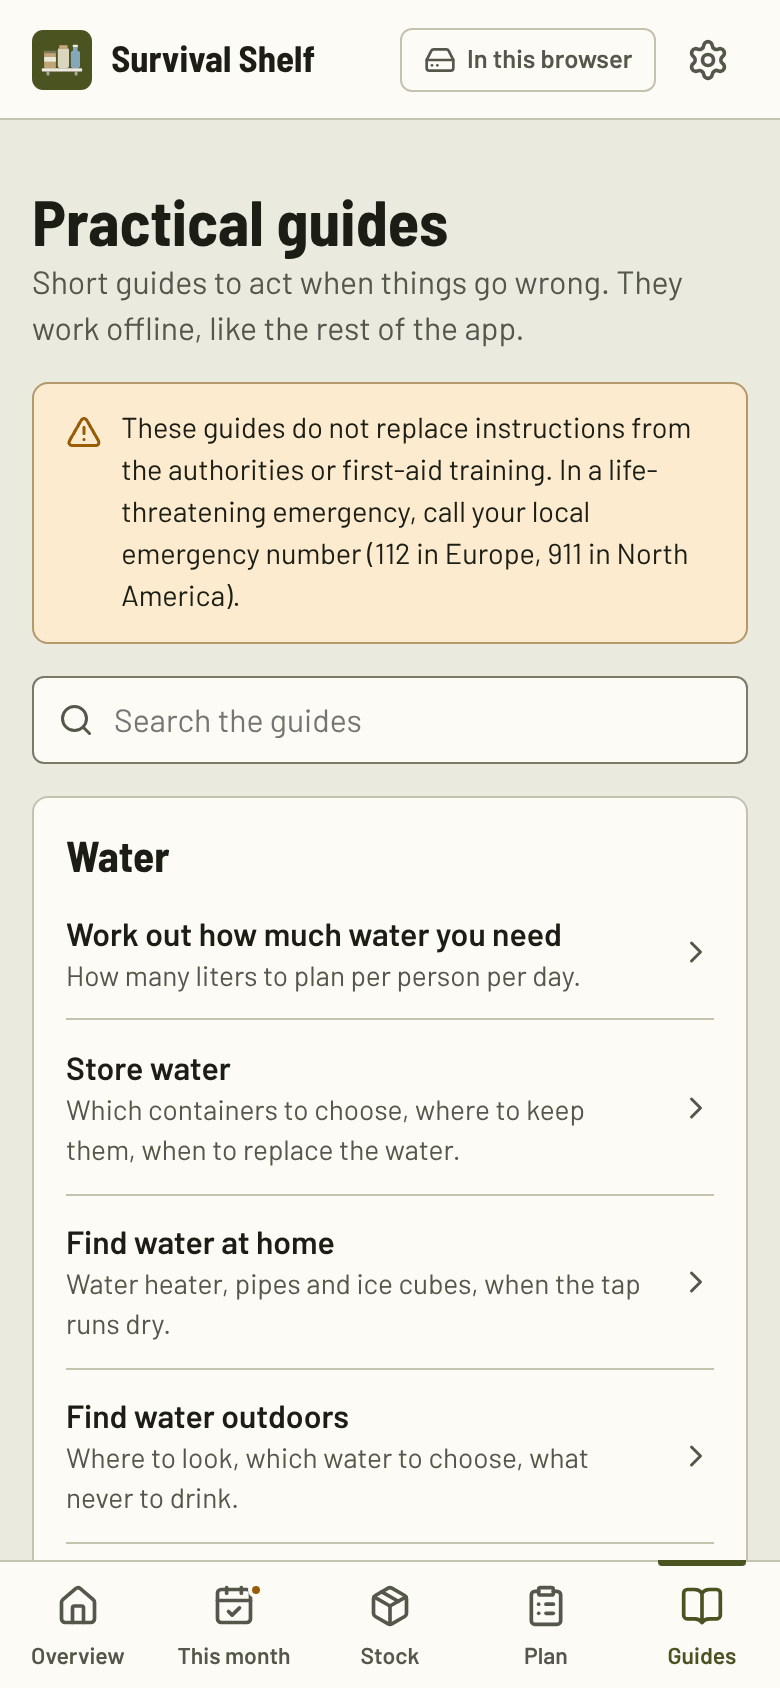
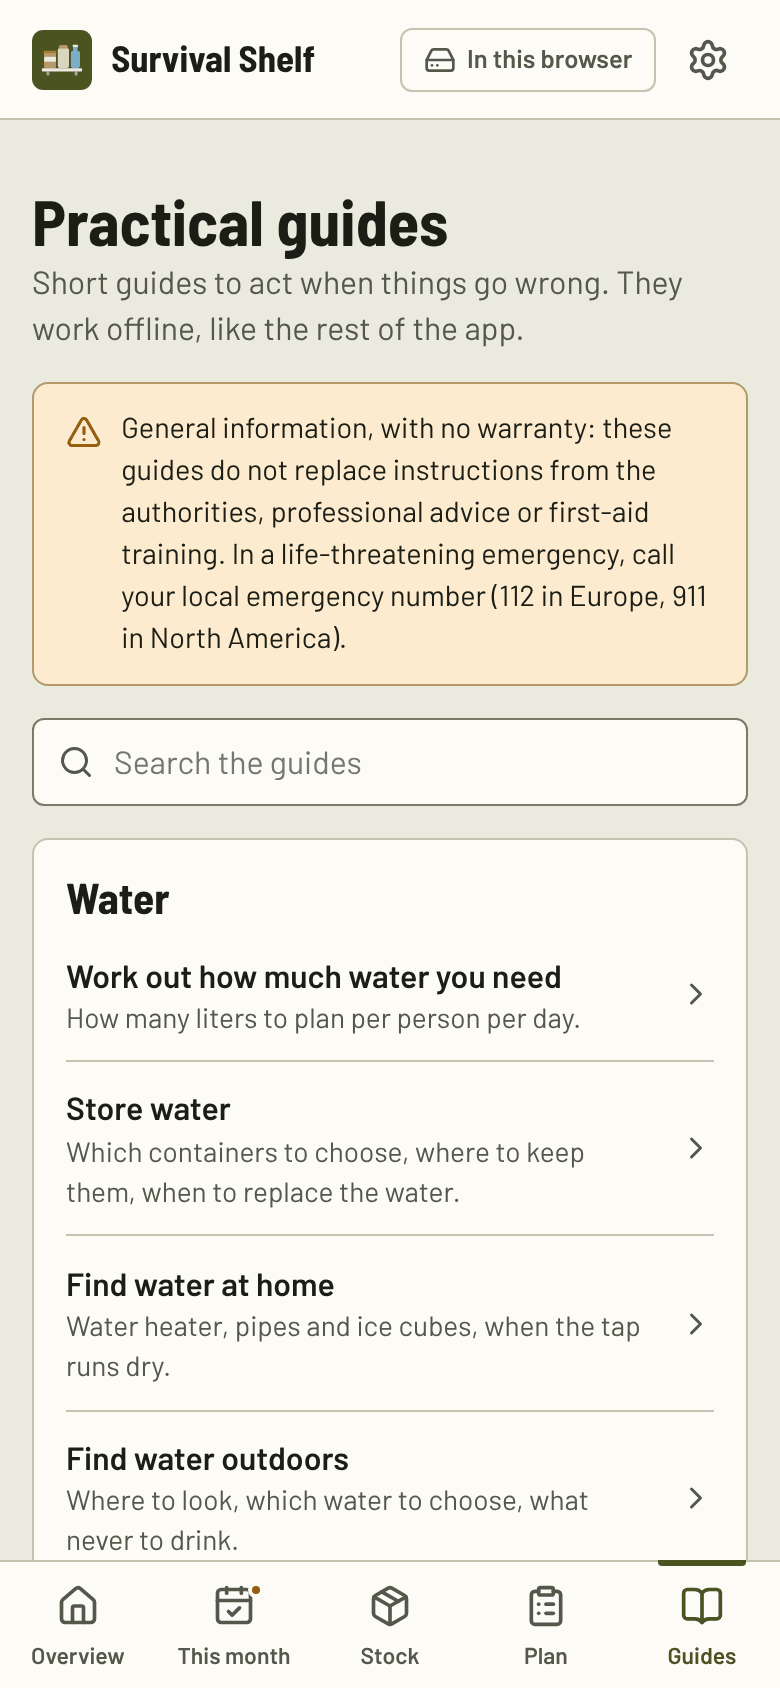
Drop the guides ZIP download and add a disclaimer
The ZIP of all the guides is gone: the build plugin no longer writes it and the
Guides page links to the guides folder on GitHub instead.

A disclaimer now says what the project is and is not: a section in both READMEs,
a stronger notice in the tables of contents of the guides and on the Guides
page, and a paragraph in Settings, About.

Claude-Session: https://claude.ai/code/session_01VbHUrZf3pw8DeQT248njbz

diff --git a/app/build/guides.ts b/app/build/guides.ts
@@ -3,11 +3,8 @@ import { join, relative, sep } from 'node:path';
 import type { Plugin } from 'vite';
 import { LANGS, type Lang } from '../src/lib/core/types.ts';
 import { buildLibrary } from '../src/lib/guides/build.ts';
-import { zip } from './zip.ts';
 
 const VIRTUAL = 'virtual:guides';
-/** Archive of all the guides, served next to the app. */
-export const GUIDES_ZIP = 'survival-shelf-guides.zip';
 
 /** Every Markdown file of the guides folder, keyed by its path relative to that folder. */
 function readGuides(root: string): Record<string, string> {
@@ -20,23 +17,14 @@ function readGuides(root: string): Record<string, string> {
   return files;
 }
 
-/** The whole guides folder, as it is in the repository. */
-function guidesArchive(root: string): Buffer {
-  const files = Object.entries(readGuides(root))
-    .sort(([a], [b]) => a.localeCompare(b))
-    .map(([path, content]) => [`survival-shelf-guides/${path}`, content]);
-  return zip(Object.fromEntries(files));
-}
-
 /**
- * Makes the Markdown guides of the repository available to the app:
- * - `virtual:guides` exports `loadGuides(lang)`, the guides of a language already rendered to
- *   HTML, so the app needs no Markdown parser and reads them offline. Each language is a chunk
- *   of its own, loaded when first needed, or part of the main script with `inline` (the
- *   single-file build has no other file to load);
- * - with `archive`, a ZIP of the whole folder is written next to the app.
+ * Makes the Markdown guides of the repository available to the app: `virtual:guides` exports
+ * `loadGuides(lang)`, the guides of a language already rendered to HTML, so the app needs no
+ * Markdown parser and reads them offline. Each language is a chunk of its own, loaded when first
+ * needed, or part of the main script with `inline` (the single-file build has no other file to
+ * load).
  */
-export function guides(root: string, options: { inline: boolean; archive: boolean }): Plugin {
+export function guides(root: string, options: { inline: boolean }): Plugin {
   return {
     name: 'survival-shelf:guides',
     resolveId(id) {
@@ -62,15 +50,6 @@ export function guides(root: string, options: { inline: boolean; archive: boolea
       const files = readGuides(root);
       for (const path of Object.keys(files)) this.addWatchFile(join(root, path));
       return `export default ${JSON.stringify(buildLibrary(files, lang as Lang))};`;
-    },
-    generateBundle() {
-      if (options.archive) this.emitFile({ type: 'asset', fileName: GUIDES_ZIP, source: guidesArchive(root) });
-    },
-    configureServer(server) {
-      server.middlewares.use(`/${GUIDES_ZIP}`, (_request, response) => {
-        response.setHeader('Content-Type', 'application/zip');
-        response.end(guidesArchive(root));
-      });
     },
   };
 }

diff --git a/app/src/lib/i18n/fr.ts b/app/src/lib/i18n/fr.ts
@@ -326,6 +326,9 @@ export const fr: Record<keyof typeof en, string> = {
   'settings.about': 'À propos',
   'settings.aboutText':
     'Survival Shelf est une appli libre et gratuite. Pas de compte, pas de serveur : tes données ne quittent jamais ton appareil.',
+  'settings.disclaimerTitle': 'Avertissement',
+  'settings.disclaimer':
+    'Survival Shelf est un projet personnel et bénévole, pas une source officielle. Ses estimations (quantités, jours d’autonomie, durées de conservation) et ses fiches sont des informations générales, fournies en l’état, sans garantie : tu les utilises sous ta seule responsabilité. Elles ne remplacent ni les consignes des autorités, ni l’avis d’un professionnel, ni une formation aux premiers secours.',
   'settings.license': 'licence MIT',
   'settings.singleFile': 'Télécharger la version fichier unique',
   'settings.singleFileHint': 'un seul fichier HTML qui marche sans installation, depuis un disque ou une clé USB.',
@@ -373,7 +376,7 @@ export const fr: Record<keyof typeof en, string> = {
   'guides.title': 'Fiches pratiques',
   'guides.intro': 'Des fiches courtes pour agir quand tout va mal. Elles marchent hors ligne, comme le reste de l’appli.',
   'guides.notice':
-    'Ces fiches ne remplacent ni les consignes des autorités ni une formation aux premiers secours. En cas d’urgence vitale, appelle le 112.',
+    'Informations générales, sans garantie : ces fiches ne remplacent ni les consignes des autorités, ni l’avis d’un professionnel, ni une formation aux premiers secours. En cas d’urgence vitale, appelle le 112.',
   'guides.search': 'Chercher dans les fiches',
   'guides.results_one': '{count} fiche pour « {query} »',
   'guides.results_other': '{count} fiches pour « {query} »',
@@ -381,8 +384,8 @@ export const fr: Record<keyof typeof en, string> = {
   'guides.more': 'D’autres thèmes sont en cours d’écriture.',
   'guides.offlineTitle': 'Garde-les sans l’appli',
   'guides.offlineText':
-    'Les fiches sont de simples fichiers texte : copie-les sur un téléphone ou une clé USB, ou imprime celles qui comptent pour toi.',
-  'guides.download': 'Télécharger toutes les fiches',
+    'Les fiches sont aussi de simples fichiers texte, dans le dossier « guides » du projet : copie-les sur un téléphone ou une clé USB, ou imprime celles qui comptent pour toi.',
+  'guides.files': 'Voir les fichiers sur GitHub',
   'guides.all': 'Toutes les fiches',
   'guides.print': 'Imprimer',
   'guides.notFound': 'Cette fiche n’existe pas, ou plus.',

diff --git a/app/src/lib/i18n/en.ts b/app/src/lib/i18n/en.ts
@@ -321,6 +321,9 @@ export const en = {
   'settings.about': 'About',
   'settings.aboutText':
     'Survival Shelf is a free, open-source app. It needs no account and no server: your data never leaves your device.',
+  'settings.disclaimerTitle': 'Disclaimer',
+  'settings.disclaimer':
+    'Survival Shelf is a personal, volunteer project, not an official source. Its estimates (quantities, days of autonomy, shelf lives) and its guides are general information, provided as is, with no warranty: you use them at your own risk. They do not replace instructions from the authorities, professional advice or first-aid training.',
   'settings.license': 'MIT license',
   'settings.singleFile': 'Download the single-file version',
   'settings.singleFileHint': 'one HTML file that runs without installation, from a disk or a USB key.',
@@ -368,7 +371,7 @@ export const en = {
   'guides.title': 'Practical guides',
   'guides.intro': 'Short guides to act when things go wrong. They work offline, like the rest of the app.',
   'guides.notice':
-    'These guides do not replace instructions from the authorities or first-aid training. In a life-threatening emergency, call your local emergency number (112 in Europe, 911 in North America).',
+    'General information, with no warranty: these guides do not replace instructions from the authorities, professional advice or first-aid training. In a life-threatening emergency, call your local emergency number (112 in Europe, 911 in North America).',
   'guides.search': 'Search the guides',
   'guides.results_one': '{count} guide for “{query}”',
   'guides.results_other': '{count} guides for “{query}”',
@@ -376,8 +379,8 @@ export const en = {
   'guides.more': 'More themes are being written.',
   'guides.offlineTitle': 'Keep them without the app',
   'guides.offlineText':
-    'The guides are plain text files: copy them to a phone or a USB stick, or print the ones that matter to you.',
-  'guides.download': 'Download all guides',
+    'The guides are also plain text files, in the “guides” folder of the project: copy them to a phone or a USB stick, or print the ones that matter to you.',
+  'guides.files': 'See the files on GitHub',
   'guides.all': 'All guides',
   'guides.print': 'Print',
   'guides.notFound': 'This guide does not exist, or not anymore.',

diff --git a/app/src/views/Guides.svelte b/app/src/views/Guides.svelte
@@ -1,7 +1,7 @@
 <script lang="ts">
   import ArrowLeft from '@lucide/svelte/icons/arrow-left';
   import ChevronRight from '@lucide/svelte/icons/chevron-right';
-  import Download from '@lucide/svelte/icons/download';
+  import ExternalLink from '@lucide/svelte/icons/external-link';
   import Printer from '@lucide/svelte/icons/printer';
   import Search from '@lucide/svelte/icons/search';
   import TriangleAlert from '@lucide/svelte/icons/triangle-alert';
@@ -11,7 +11,8 @@
   import { i18n, t, tn } from '../lib/i18n/index.svelte';
   import { router } from '../lib/ui/state.svelte';
 
-  const canDownload = !__SINGLE_FILE__ && location.protocol !== 'file:';
+  /** The same guides as plain Markdown files, for whoever wants them without the app. */
+  const FILES = 'https://github.com/sylvaindeloux/survival-shelf/tree/master/guides';
 
   // The guides are the Markdown files of the repository's guides/ folder, rendered at build time
   // and loaded one language at a time.
@@ -126,9 +127,9 @@
     <section class="card stack">
       <h2>{t('guides.offlineTitle')}</h2>
       <p class="small">{t('guides.offlineText')}</p>
-      {#if canDownload}
-        <p><a class="btn" href="./survival-shelf-guides.zip" download><Download size={18} />{t('guides.download')}</a></p>
-      {/if}
+      <p>
+        <a class="btn" href={FILES} target="_blank" rel="noopener"><ExternalLink size={18} />{t('guides.files')}</a>
+      </p>
     </section>
   </div>
 {/if}

diff --git a/app/vite.config.ts b/app/vite.config.ts
@@ -34,14 +34,12 @@ export default defineConfig(({ mode }) => {
     base: './',
     define: {
       __APP_VERSION__: JSON.stringify(appVersion()),
-      // The single file has nothing next to it: no archive of the guides to download.
-      __SINGLE_FILE__: JSON.stringify(single),
     },
     publicDir: single ? false : 'public',
     plugins: [
       svelte(),
       // The practical guides live at the root of the repository, readable without the app.
-      guides(resolve(import.meta.dirname, '../guides'), { inline: single, archive: !single }),
+      guides(resolve(import.meta.dirname, '../guides'), { inline: single }),
       single
         ? inlineSingleFile(resolve(import.meta.dirname, 'public'))
         : VitePWA({
@@ -71,7 +69,7 @@ export default defineConfig(({ mode }) => {
               file_handlers: [{ action: './', accept: { 'text/markdown': ['.md', '.markdown'] } }],
             },
             workbox: {
-              globPatterns: ['**/*.{js,css,html,svg,png,woff2,webmanifest,zip}'],
+              globPatterns: ['**/*.{js,css,html,svg,png,woff2,webmanifest}'],
               navigateFallback: 'index.html',
             },
           }),

diff --git a/app/src/views/Settings.svelte b/app/src/views/Settings.svelte
@@ -270,6 +270,7 @@
   <section class="card stack">
     <h2>{t('settings.about')}</h2>
     <p class="small">{t('settings.aboutText')}</p>
+    <p class="small"><strong>{t('settings.disclaimerTitle')}</strong><br />{t('settings.disclaimer')}</p>
     {#if location.protocol !== 'file:'}
       <p class="small">
         <a href="./survival-shelf.html" download>{t('settings.singleFile')}</a>

diff --git a/app/src/types/browser.d.ts b/app/src/types/browser.d.ts
@@ -29,5 +29,3 @@ interface Window {
 }
 
 declare const __APP_VERSION__: string;
-/** True in the single-file build, which ships without the files served next to the app. */
-declare const __SINGLE_FILE__: boolean;

diff --git a/README.fr.md b/README.fr.md
@@ -173,12 +173,13 @@ officielles.
   les lire avant même d’avoir un stock.
 - **Sans l’appli**, ce sont de simples fichiers texte rangés par langue et par thème dans le dossier
   [`guides`](guides/) : lis-les ici sur GitHub, copie-les sur un téléphone ou une clé USB, ou imprime celles
-  qui comptent pour toi. L’appli a un bouton « Télécharger toutes les fiches ».
+  qui comptent pour toi.
 
 Le premier thème, l’eau, est disponible. Les autres sont en cours d’écriture : les bases, la nourriture, le
 froid et la chaleur, le feu et l’énergie, la santé et les premiers secours, l’hygiène, la communication et
 l’orientation, les catastrophes, à la maison, en voiture, en extérieur et les milieux hostiles. Les fiches ne
-remplacent ni les consignes des autorités ni une formation aux premiers secours.
+remplacent ni les consignes des autorités ni une formation aux premiers secours : lis
+l’[avertissement](#avertissement).
 
 ## Questions
 
@@ -206,6 +207,25 @@ c’est différent : ne compte plus dessus après leur date. Détails dans les
 
 **Je peux ajouter mes propres produits ?**
 Oui, n’importe quel produit, avec ce que ton foyer en utilise par jour ou le minimum que tu veux avoir.
+
+## Avertissement
+
+Survival Shelf est un projet personnel et bénévole. Ce n’est pas une source officielle, et il ne remplace ni
+les consignes des autorités, ni l’avis d’un professionnel (médecin, pharmacien, pompier…), ni une formation
+aux premiers secours.
+
+- **L’appli donne des estimations.** Les quantités, les jours d’autonomie et les durées de conservation sont
+  des repères généraux : vérifie-les avec ton foyer et les étiquettes de tes produits.
+- **Les fiches donnent des informations générales.** Elles sont écrites avec soin à partir de sources
+  officielles, mais elles peuvent contenir des erreurs, ne plus être à jour, ou ne pas convenir à ta situation
+  ou à ton pays.
+
+Tu utilises l’appli et les fiches sous ta seule responsabilité. Elles sont fournies « en l’état », sans aucune
+garantie, et leurs auteurs et contributeurs ne peuvent pas être tenus responsables des conséquences de leur
+utilisation, comme le prévoit la [licence MIT](LICENSE). En cas d’urgence vitale, appelle le 112.
+
+Tu as repéré une erreur ? [Signale-la dans les issues](https://github.com/sylvaindeloux/survival-shelf/issues) :
+la corriger peut aider quelqu’un d’autre.
 
 ## Contribuer
 

diff --git a/README.md b/README.md
@@ -165,11 +165,11 @@ where do I find some when the tap runs dry…), start with the essentials and li
   you have any stock.
 - **Without the app**, they are plain text files in the [`guides`](guides/) folder, sorted by language and
   theme: read them here on GitHub, copy them to a phone or a USB stick, or print the ones that matter to you.
-  The app has a "Download all guides" button.
 
 The first theme, water, is there. The others are being written: basics, food, cold and heat, fire and power,
 health and first aid, hygiene, communication and navigation, disasters, at home, in the car, outdoors and
-hostile environments. The guides do not replace instructions from the authorities or first-aid training.
+hostile environments. The guides do not replace instructions from the authorities or first-aid training: read
+the [disclaimer](#disclaimer).
 
 ## Questions
 
@@ -196,6 +196,25 @@ and water purification tablets are different: do not rely on them after their da
 
 **Can I add my own products?**
 Yes, any product, with how much your household uses per day or the minimum you want to own.
+
+## Disclaimer
+
+Survival Shelf is a personal, volunteer project. It is not an official source, and it replaces neither
+instructions from the authorities, nor the advice of a professional (doctor, pharmacist, firefighter…), nor
+first-aid training.
+
+- **The app gives estimates.** Quantities, days of autonomy and shelf lives are general starting points: check
+  them against your household and the labels of your products.
+- **The guides give general information.** They are written with care from official sources, but they may
+  contain mistakes, be out of date, or not fit your situation or your country.
+
+You use the app and the guides at your own risk. They are provided "as is", without warranty of any kind, and
+their authors and contributors cannot be held liable for the consequences of their use, as the
+[MIT license](LICENSE) states. In a life-threatening emergency, call your local emergency number (112 in
+Europe, 911 in North America).
+
+Found a mistake? [Open an issue](https://github.com/sylvaindeloux/survival-shelf/issues): fixing it may help
+someone else.
 
 ## Contribute
 

diff --git a/guides/fr/README.md b/guides/fr/README.md
@@ -4,7 +4,7 @@
 
 Des fiches courtes pour agir quand tout va mal. Chaque fiche répond à une seule question, commence par l’essentiel (« En bref ») et cite ses sources.
 
-> **Important** : ces fiches ne remplacent ni les consignes des autorités ni une formation aux premiers secours. En cas d’urgence vitale, appelle le 112.
+> **Important** : ces fiches donnent des informations générales, sans garantie. Elles peuvent contenir des erreurs, ne plus être à jour ou ne pas convenir à ta situation : tu les appliques sous ta seule responsabilité. Elles ne remplacent ni les consignes des autorités, ni l’avis d’un professionnel, ni une formation aux premiers secours. En cas d’urgence vitale, appelle le 112.
 
 ## Lire les fiches sans l’appli
 
@@ -15,7 +15,7 @@ Les fiches sont de simples fichiers texte, rangés par thème dans ce dossier. T
 - les copier sur ton téléphone, ton ordinateur ou une clé USB, puis les ouvrir avec n’importe quel éditeur de texte ;
 - imprimer celles qui comptent pour toi.
 
-Pour tout récupérer d’un coup, utilise le bouton « Télécharger toutes les fiches » de l’appli, ou le bouton vert « Code » puis « Download ZIP » sur la page GitHub du projet.
+Pour tout récupérer d’un coup, utilise le bouton vert « Code » puis « Download ZIP » sur la page GitHub du projet : les fiches sont dans le dossier `guides`.
 
 ## Eau
 

diff --git a/guides/en/README.md b/guides/en/README.md
@@ -4,7 +4,7 @@
 
 Short guides to act when things go wrong. Each guide answers one question, starts with the essentials ("In short") and lists its sources.
 
-> **Important**: these guides do not replace instructions from the authorities or first-aid training. In a life-threatening emergency, call your local emergency number (112 in Europe, 911 in North America).
+> **Important**: these guides give general information, with no warranty. They may contain mistakes, be out of date or not fit your situation: you follow them at your own risk. They do not replace instructions from the authorities, professional advice or first-aid training. In a life-threatening emergency, call your local emergency number (112 in Europe, 911 in North America).
 
 ## Read the guides without the app
 
@@ -15,7 +15,7 @@ The guides are plain text files, sorted by theme in this folder. You can:
 - copy them to your phone, your computer or a USB stick, then open them with any text editor;
 - print the ones that matter to you.
 
-To get everything at once, use the "Download all guides" button in the app, or the green "Code" button then "Download ZIP" on the project's GitHub page.
+To get everything at once, use the green "Code" button then "Download ZIP" on the project's GitHub page: the guides are in the `guides` folder.
 
 ## Water
 

diff --git a/guides/README.md b/guides/README.md
@@ -7,4 +7,8 @@ Des fiches de survie courtes, en texte simple : trouver de l’eau, la rendre po
 - **English**: [open the guides](en/README.md)
 - **Français** : [ouvrir les fiches](fr/README.md)
 
+> **Important**: these guides give general information, with no warranty, and you follow them at your own risk. They do not replace instructions from the authorities, professional advice or first-aid training.
+>
+> **Important** : ces fiches donnent des informations générales, sans garantie, et tu les appliques sous ta seule responsabilité. Elles ne remplacent ni les consignes des autorités, ni l’avis d’un professionnel, ni une formation aux premiers secours.
+
 To write or fix a guide, read [CONTRIBUTING.md](CONTRIBUTING.md).
